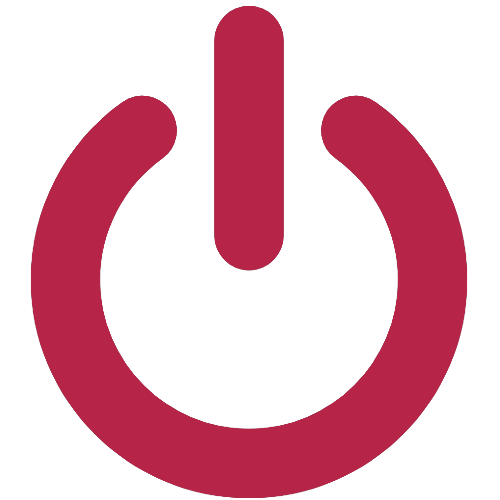
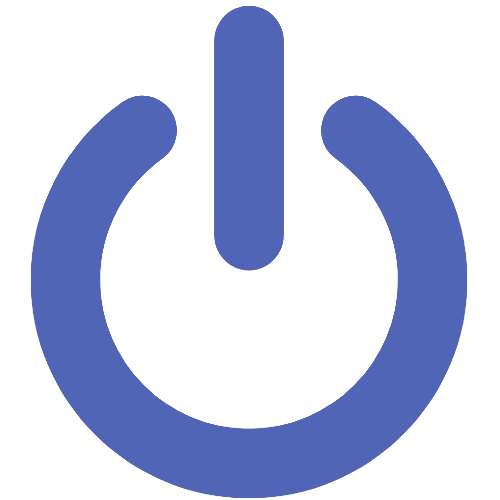
소스 이미지 색조 수정 / 기존의 설정 페이지를 마이페이지 형태로 프론트 수정 / 마이페이지 변경으로 인한 비밀번호 검증 로직 및 닉네임 수정 로직 백엔드에 추가

diff --git a/source/frontend/src/pages/MySetting.jsx b/source/frontend/src/pages/MySetting.jsx
@@ -1,6 +1,4 @@
-// src/pages/MySetting.jsx
 import React, { useEffect, useMemo, useRef, useState } from "react";
-import { useLocation, useNavigate } from "react-router-dom";
 import { authAPI } from "../services/api";
 import "./MySetting.css";
 
@@ -63,16 +61,10 @@ function safeParseUser(raw) {
   if (!raw || typeof raw !== "string") return null;
   const trimmed = raw.trim();
   if (!(trimmed.startsWith("{") && trimmed.endsWith("}"))) return null;
-
-  // try/catch 불가 → 파싱 실패 가능성은 무시하고 그대로 JSON.parse
-  // (백엔드에서 내려주는 user 캐시가 유효한 JSON이라고 가정)
   return JSON.parse(trimmed);
 }
 
 export default function MySetting() {
-  const location = useLocation();
-  const navigate = useNavigate();
-
   const [info, setInfo] = useState({
     id: "",
     nickname: "",
@@ -82,10 +74,13 @@ export default function MySetting() {
   });
   const [loading, setLoading] = useState(true);
   const [err, setErr] = useState("");
-  const [showPw, setShowPw] = useState(false);
 
   const [uploading, setUploading] = useState(false);
   const fileInputRef = useRef(null);
+
+  // 닉네임 편집 모드/값
+  const [editingNickname, setEditingNickname] = useState(false);
+  const [nicknameDraft, setNicknameDraft] = useState("");
 
   /** 설정 정보 로드 */
   function loadSettings() {
@@ -107,7 +102,9 @@ export default function MySetting() {
         if (!data) {
           setErr("설정 정보를 불러오지 못했습니다.");
         } else {
-          setInfo(normalizeUserInfo(data));
+          const normalized = normalizeUserInfo(data);
+          setInfo(normalized);
+          setNicknameDraft(normalized.nickname || "");
         }
       })
       .finally(() => setLoading(false));
@@ -119,23 +116,12 @@ export default function MySetting() {
 
   const imgSrc = useMemo(() => (info.imageUrl ? resolveImageUrl(info.imageUrl) : "/img/simple_user.png"), [info.imageUrl]);
 
-  const handleClose = () => {
-    const from = location.state && location.state.from;
-    if (from) {
-      navigate(from, { replace: true });
-      return;
-    }
-    const m = (location.pathname || "").match(/^\/workshops\/(\d+)/);
-    if (m) navigate(`/workshops/${m[1]}`, { replace: true });
-    else navigate("/", { replace: true });
-  };
-
   function copy(text) {
     if (!navigator || !navigator.clipboard || !navigator.clipboard.writeText) return;
     navigator.clipboard.writeText(text || "").then(() => {}, () => {});
   }
 
-  /** 프로필 이미지 업로드 */
+  /** 프로필 이미지 업로드 (왼쪽 UI 로직은 유지) */
   function uploadProfileImage(file) {
     if (!file) return;
     setUploading(true);
@@ -210,19 +196,90 @@ export default function MySetting() {
     e.target.value = "";
   };
 
+  /** 닉네임 저장 */
+  const onSaveNickname = () => {
+    const newNickname = (nicknameDraft || "").trim();
+    if (!newNickname) {
+      alert("닉네임을 입력하세요.");
+      return;
+    }
+    if (newNickname === info.nickname) {
+      setEditingNickname(false);
+      return;
+    }
+    authAPI
+      .updateMyInfo({ newNickname })
+      .then((r) => (r && r.data) || null)
+      .then((data) => {
+        if (!data) throw new Error();
+        setInfo((prev) => ({ ...prev, nickname: data.nickname || newNickname }));
+        setEditingNickname(false);
+        // 로컬 캐시 반영
+        const raw = typeof localStorage !== "undefined" ? localStorage.getItem("user") : null;
+        const parsed = safeParseUser(raw);
+        if (parsed) {
+          parsed.nickname = data.nickname || newNickname;
+          localStorage.setItem("user", JSON.stringify(parsed));
+        }
+        alert("닉네임이 변경되었습니다.");
+      })
+      .catch(() => alert("닉네임 변경에 실패했습니다."));
+  };
+
+  /** 비밀번호 변경 (값은 표시하지 않음) */
+  const onChangePassword = async () => {
+    const current = window.prompt("현재 비밀번호를 입력하세요.");
+    if (current == null) return;
+    if (!current.trim()) {
+      alert("현재 비밀번호를 입력하세요.");
+      return;
+    }
+
+    try {
+      const v = await authAPI.verifyPassword({ currentPassword: current });
+      const ok = v && v.data && v.data.isValid;
+      if (!ok) {
+        alert("현재 비밀번호가 일치하지 않습니다.");
+        return;
+      }
+    } catch {
+      alert("현재 비밀번호 확인 중 오류가 발생했습니다.");
+      return;
+    }
+
+    const np1 = window.prompt("새 비밀번호를 입력하세요.");
+    if (np1 == null) return;
+    const np2 = window.prompt("새 비밀번호를 한 번 더 입력하세요.");
+    if (np2 == null) return;
+
+    if (!np1.trim() || !np2.trim()) {
+      alert("새 비밀번호를 모두 입력하세요.");
+      return;
+    }
+    if (np1 !== np2) {
+      alert("두 비밀번호가 서로 일치하지 않습니다.");
+      return;
+    }
+    if (np1.length < 8) {
+      alert("비밀번호는 8자 이상이어야 합니다.");
+      return;
+    }
+
+    try {
+      await authAPI.updatePassword({ currentPassword: current, newPassword: np1 });
+      alert("비밀번호가 변경되었습니다. 다시 로그인해야 할 수 있습니다.");
+    } catch {
+      alert("비밀번호 변경에 실패했습니다.");
+    }
+  };
+
   return (
     <section className="settings-page">
       <div className="settings-main">
+        {/* 헤더: 제목만 '마이페이지'로, 우측 버튼 제거 */}
         <div className="settings-header">
-          <h1 className="settings-title">설정</h1>
-          <div className="settings-actions">
-            <button className="btn btn-primary" onClick={loadSettings} disabled={loading} title="다시 불러오기">
-              <span className="btn-ico">↻</span> 새로고침
-            </button>
-            <button className="btn btn-ghost" onClick={handleClose} title="닫기">
-              <span className="btn-ico">✕</span> 닫기
-            </button>
-          </div>
+          <h1 className="settings-title">마이페이지</h1>
+          {/* (우측 새로고침/닫기 제거) */}
         </div>
 
         {loading ? (
@@ -231,6 +288,7 @@ export default function MySetting() {
           <div className="settings-error">{err}</div>
         ) : (
           <section className="settings-card">
+            {/* 1) 왼쪽 프로필 사진 영역: 원본 유지 */}
             <div className="settings-left">
               <div className="avatar-wrap">
                 <img
@@ -263,9 +321,11 @@ export default function MySetting() {
               </div>
             </div>
 
+            {/* 2) 오른쪽 정보: 원래 디자인 유지 + 요구사항 반영 */}
             <div className="settings-right">
               <div className="section-title">계정</div>
 
+              {/* 아이디: 텍스트표시 + 복사 버튼 유지 */}
               <div className="kv-row">
                 <div className="kv-label">아이디</div>
                 <div className="kv-value">{info.id || "-"}</div>
@@ -274,12 +334,41 @@ export default function MySetting() {
                 </div>
               </div>
 
+              {/* 비밀번호: 값 표시 X, 변경하기 버튼만 */}
               <div className="kv-row">
-                <div className="kv-label">닉네임</div>
-                <div className="kv-value">{info.nickname || "-"}</div>
-                <div className="kv-ctrl" />
+                <div className="kv-label">비밀번호</div>
+                <div className="kv-value">{/* 비워둠 */}</div>
+                <div className="kv-ctrl">
+                  <button className="chip" onClick={onChangePassword}>변경하기</button>
+                </div>
               </div>
 
+              {/* 닉네임: 기본은 텍스트 + '변경' 버튼, 편집 시 인풋 + '완료' */}
+              <div className="kv-row">
+                <div className="kv-label">닉네임</div>
+                <div className="kv-value">
+                  {editingNickname ? (
+                    <input
+                      className="inp"
+                      value={nicknameDraft}
+                      onChange={(e) => setNicknameDraft(e.target.value)}
+                      placeholder="닉네임을 입력하세요"
+                      autoFocus
+                    />
+                  ) : (
+                    info.nickname || "-"
+                  )}
+                </div>
+                <div className="kv-ctrl">
+                  {editingNickname ? (
+                    <button className="chip" onClick={onSaveNickname}>완료</button>
+                  ) : (
+                    <button className="chip" onClick={() => setEditingNickname(true)}>변경</button>
+                  )}
+                </div>
+              </div>
+
+              {/* 이메일: 텍스트표시 + 복사 버튼 유지 */}
               <div className="kv-row">
                 <div className="kv-label">이메일</div>
                 <div className="kv-value">{info.email || "-"}</div>
@@ -288,29 +377,7 @@ export default function MySetting() {
                 </div>
               </div>
 
-              <div className="kv-row">
-                <div className="kv-label">이메일 비밀번호</div>
-                <div className="kv-value">
-                  {showPw ? info.emailPassword || "-" : info.emailPassword ? "•".repeat(10) : "-"}
-                </div>
-                <div className="kv-ctrl">
-                  <button className="chip chip-toggle" onClick={() => setShowPw((s) => !s)} title={showPw ? "가리기" : "보기"}>
-                    {showPw ? "가리기" : "보기"}
-                  </button>
-                </div>
-              </div>
-
-              <div className="section-divider" />
-
-              <div className="section-title">프로필</div>
-
-              <div className="kv-row">
-                <div className="kv-label">프로필 이미지 URL</div>
-                <div className="kv-value">{info.imageUrl || "-"}</div>
-                <div className="kv-ctrl">
-                  <button className="chip" onClick={() => copy(info.imageUrl)} disabled={!info.imageUrl}>복사</button>
-                </div>
-              </div>
+              {/* 제거됨: 이메일 비밀번호, 프로필 이미지 URL */}
             </div>
           </section>
         )}

diff --git a/source/frontend/src/services/api.js b/source/frontend/src/services/api.js
@@ -43,7 +43,11 @@ export const authAPI = {
 
   // ✅ 내정보: GET/PUT /user-info
   getMyInfo: () => api.get("/user-info"),
-  updateMyInfo: (data) => api.put("/user-info", data),
+  // ✅ 닉네임 등 업데이트: 백엔드가 POST만 받으므로 POST로 수정
+  updateMyInfo: (data) => api.post("/user-info", data),
+  // ✅ 현재 비밀번호 확인 → 비번 변경 UX용
+  verifyPassword: (data) => api.post("/user-info/verify-password", data),   // { currentPassword }
+  updatePassword: (data) => api.post("/user-info/update-password", data),   // { currentPassword, newPassword }
 };
 
 /* ===== Workshops ===== */

diff --git a/source/backend/src/main/java/com/workmates/backend/service/UserService.java b/source/backend/src/main/java/com/workmates/backend/service/UserService.java
@@ -274,6 +274,19 @@ public class UserService {
                     .build();
     }
 
+    @Transactional(readOnly = true)
+    public UserDto.VerifyPasswordResponse verifyPassword(String id, UserDto.VerifyPasswordRequest request) {
+        if (!ServiceUtil.validateId(id) || request == null || request.getCurrentPassword() == null) {
+            throw new IllegalArgumentException("올바르지 않은 요청입니다.");
+        }
+        Optional<User> user = userRepository.findById(id);
+        if (!user.isPresent() || user.get().getIsDeleted()) {
+            throw new IllegalArgumentException("사용자를 찾을 수 없습니다.");
+        }
+        boolean ok = passwordEncoder.matches(request.getCurrentPassword(), user.get().getPassword());
+        return UserDto.VerifyPasswordResponse.builder().isValid(ok).build();
+    }
+
     private String generateCode() {
         StringBuilder codeBuilder = new StringBuilder();
         Random random = new Random(System.nanoTime());

diff --git a/source/backend/src/main/java/com/workmates/backend/web/controller/AuthController.java b/source/backend/src/main/java/com/workmates/backend/web/controller/AuthController.java
@@ -80,4 +80,13 @@ public class AuthController {
         return ResponseEntity.ok(userService.quit(principal.getUsername(), request));
     }
 
+    @PostMapping("/user-info/verify-password")
+    public ResponseEntity<UserDto.VerifyPasswordResponse> verifyPassword(
+        @AuthenticationPrincipal org.springframework.security.core.userdetails.User principal,
+        @Valid
+        @RequestBody UserDto.VerifyPasswordRequest request
+    ) {
+        return ResponseEntity.ok(userService.verifyPassword(principal.getUsername(), request));
+    }
+
 }

diff --git a/source/backend/src/main/java/com/workmates/backend/web/dto/UserDto.java b/source/backend/src/main/java/com/workmates/backend/web/dto/UserDto.java
@@ -202,4 +202,21 @@ public class UserDto {
     public static class QuitResponse {
         private Boolean isUserDeleted;
     }
+
+    // VerifyPasswordRequest / Response 추가
+    @Data
+    @Builder
+    @NoArgsConstructor
+    @AllArgsConstructor
+    public static class VerifyPasswordRequest {
+        private String currentPassword;
+    }
+
+    @Data
+    @Builder
+    @NoArgsConstructor
+    @AllArgsConstructor
+    public static class VerifyPasswordResponse {
+        private Boolean isValid;
+    }
 }
